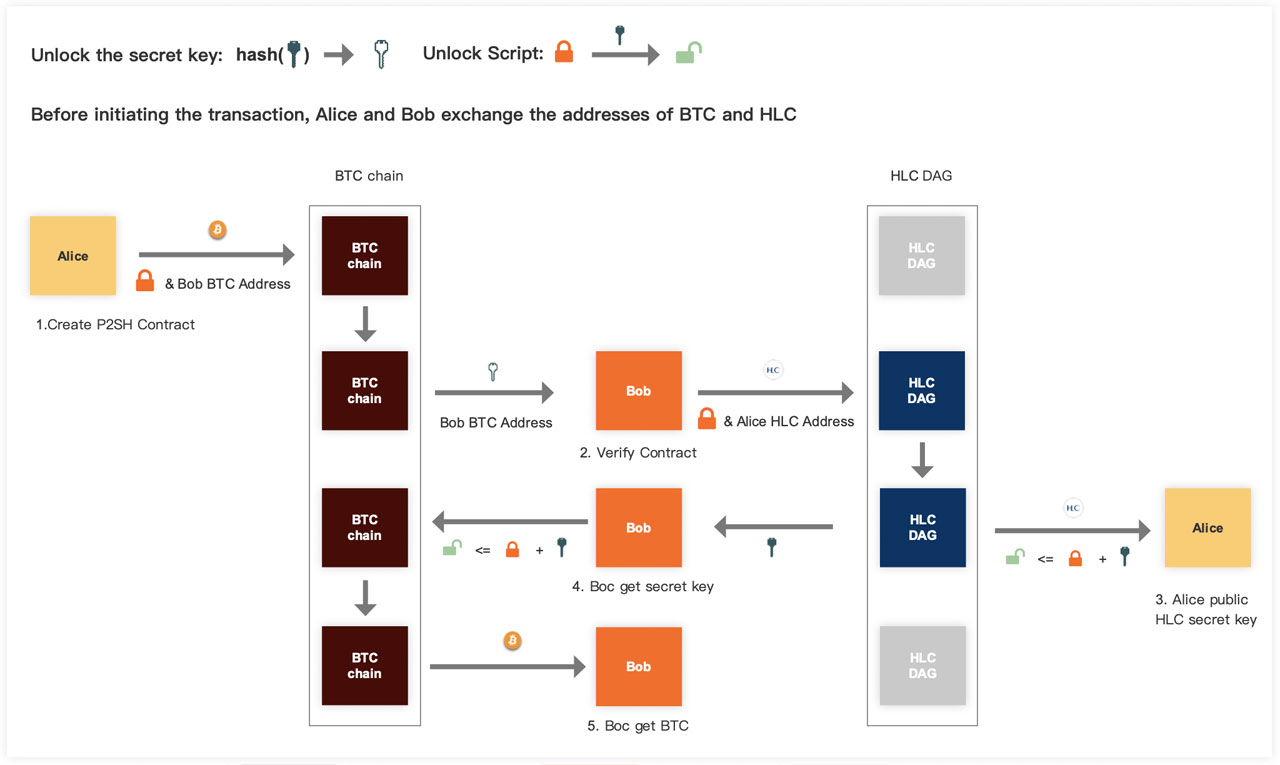
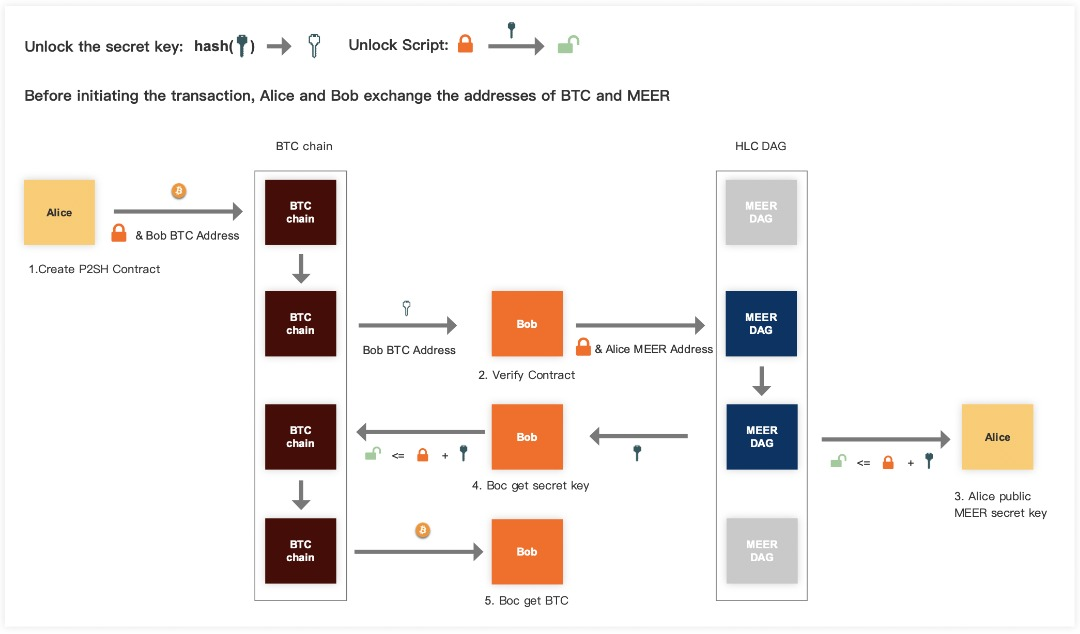
fix UTXO Atom Swap figure

diff --git a/qitmeer_whitepaper.tex b/qitmeer_whitepaper.tex
@@ -995,7 +995,7 @@ The implementation process of hash locking across the chain is:
 	\centerline{%
 	   \resizebox{0.8\textwidth}{!}{\includegraphics{figures/UTXOAtomicSwap.jpg}}%
 	}
-\caption{UTXO}
+\caption{UTXO Atom Swap}
 \end{figure}
 
 
